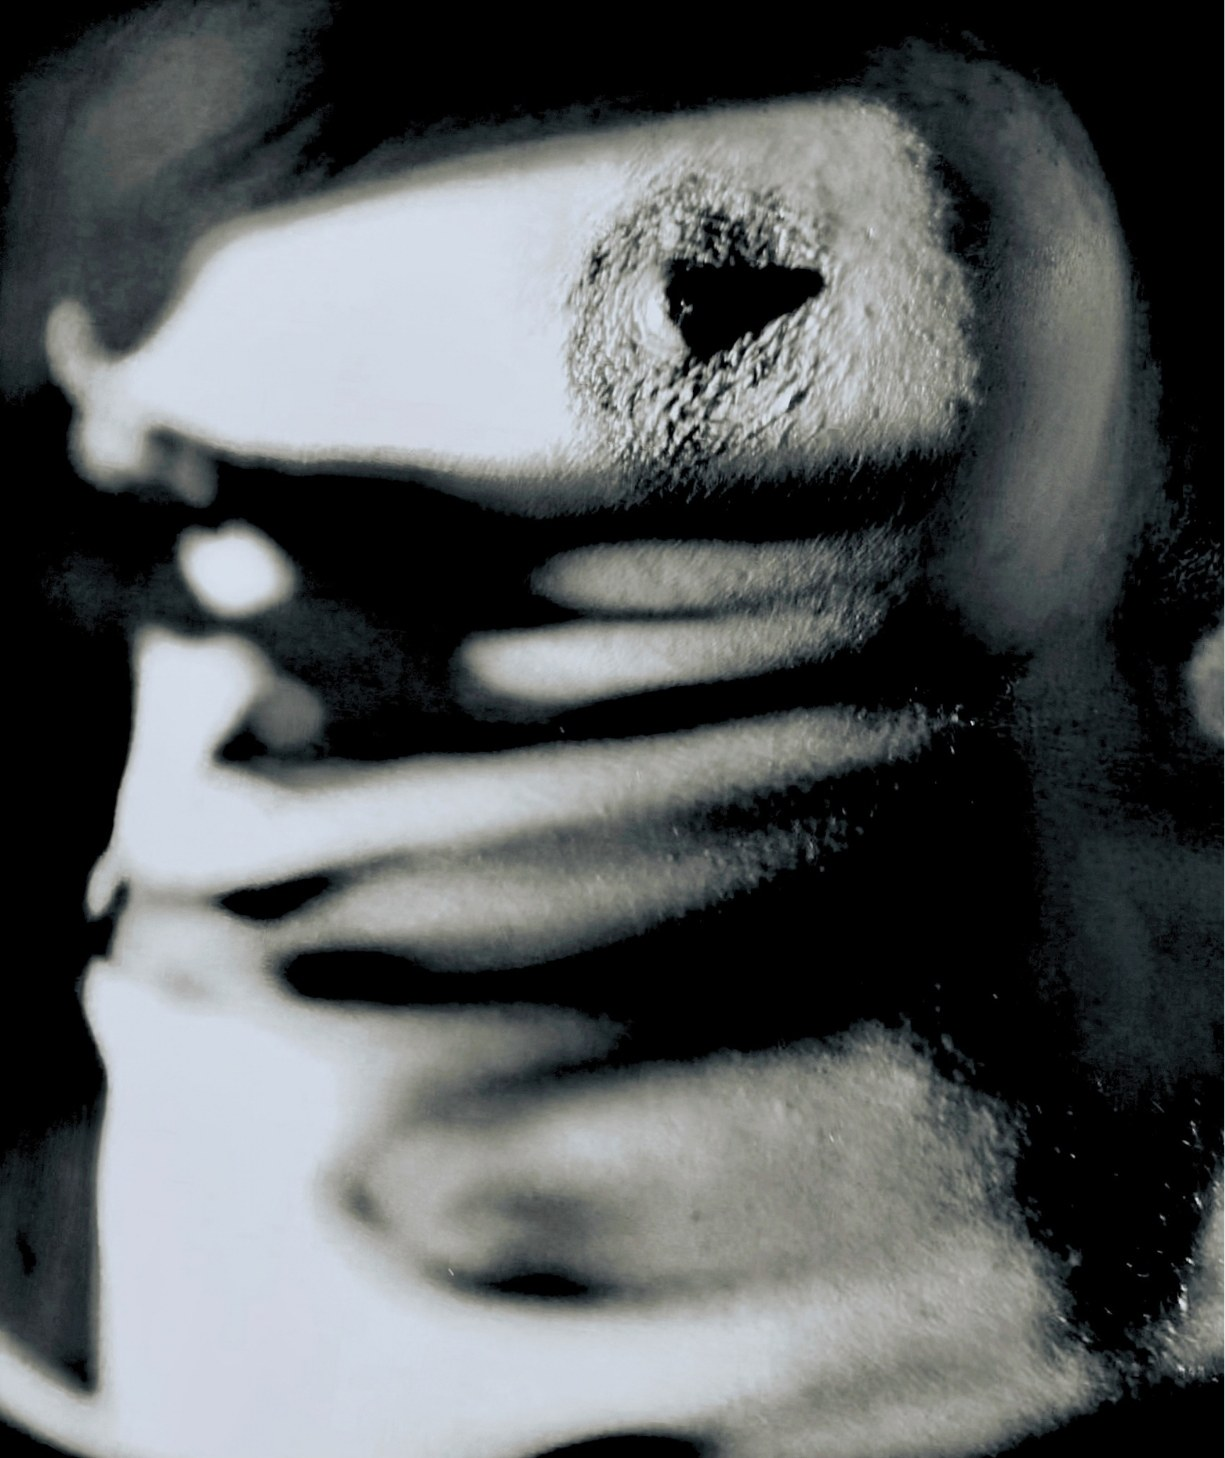
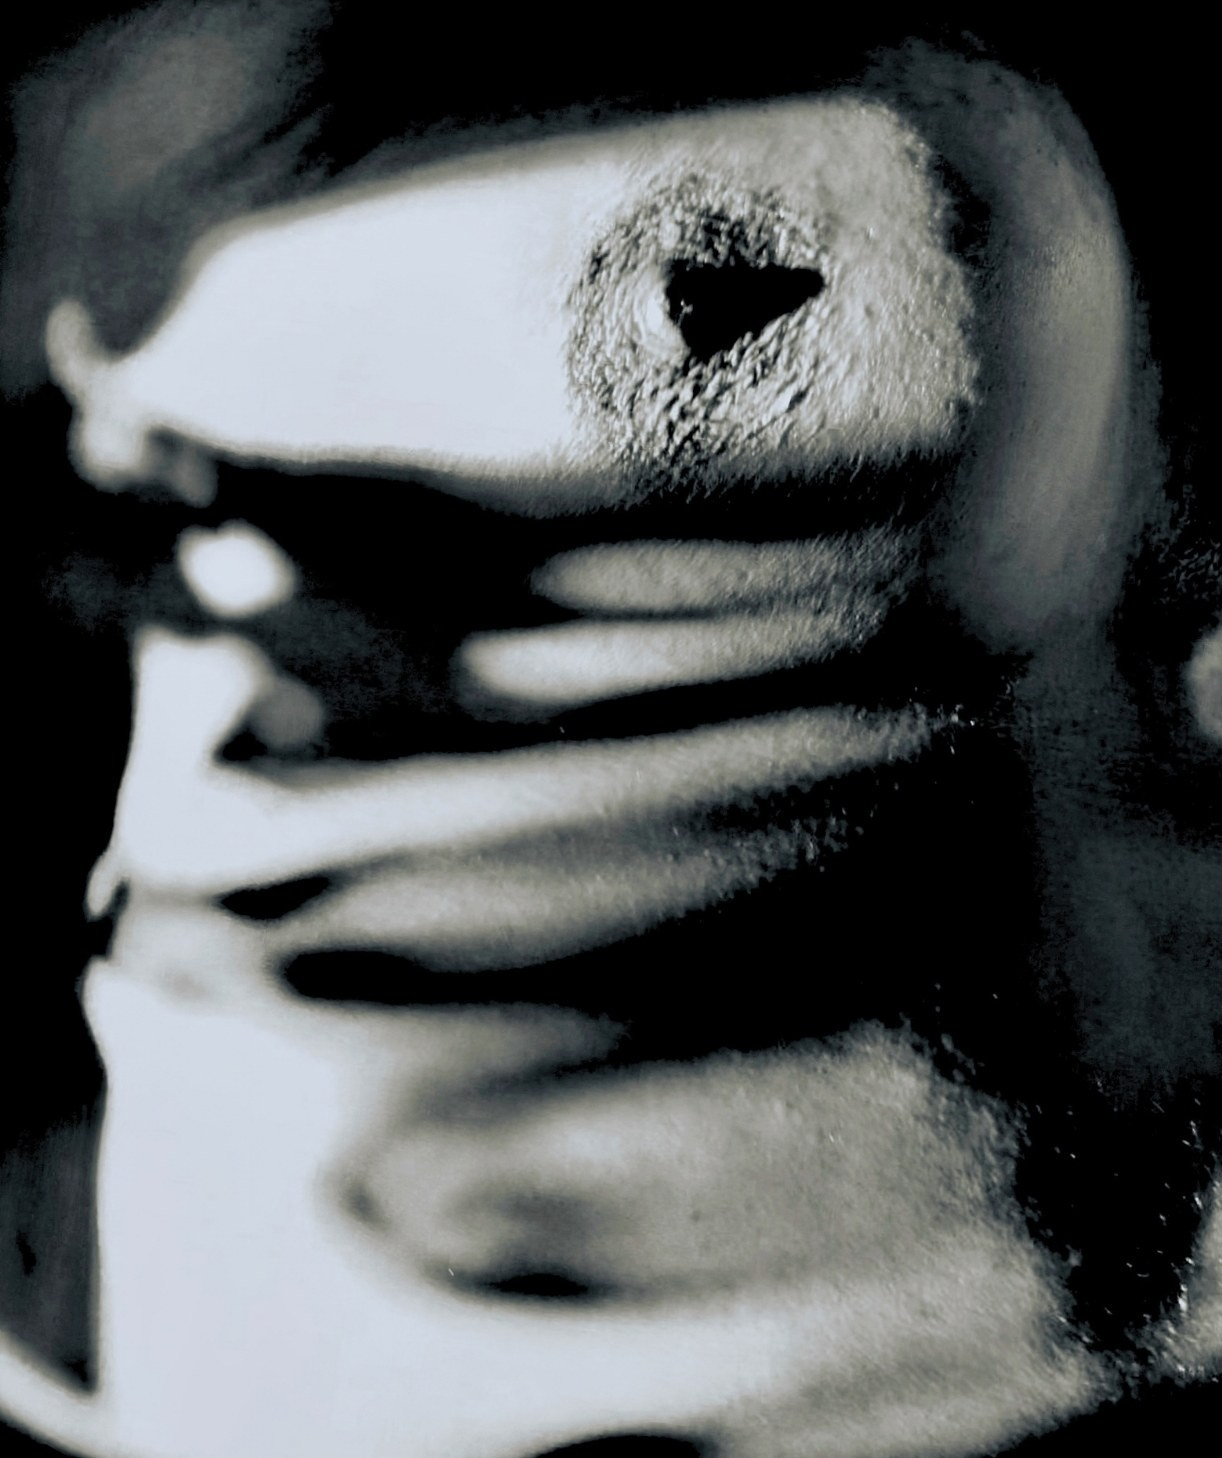
Relative: trim light edge lines that widened the gap inside Gravity and Ramification
Claude-Session: https://claude.ai/code/session_017CfwZAVzcE1XJqFP6CWfhU

diff --git a/lib/image-sizes.ts b/lib/image-sizes.ts
@@ -223,30 +223,30 @@ export const imageSizes: Record<string, [number, number]> = {
   "/art/relative/04.webp": [1500, 828],
   "/art/relative/05.webp": [1500, 783],
   "/art/relative/06.webp": [1200, 1500],
-  "/art/relative/relative-01-wind-a.jpg": [1239, 1541],
-  "/art/relative/relative-01-wind-b.jpg": [1175, 1530],
+  "/art/relative/relative-01-wind-a.jpg": [1239, 1538],
+  "/art/relative/relative-01-wind-b.jpg": [1175, 1527],
   "/art/relative/relative-01A.jpg": [1381, 1080],
   "/art/relative/relative-01B.jpg": [864, 1080],
-  "/art/relative/relative-02-insulation-a.jpg": [2573, 1654],
-  "/art/relative/relative-02-insulation-b.jpg": [2572, 1708],
+  "/art/relative/relative-02-insulation-a.jpg": [2566, 1651],
+  "/art/relative/relative-02-insulation-b.jpg": [2566, 1704],
   "/art/relative/relative-02A.jpg": [864, 1080],
   "/art/relative/relative-02B.jpg": [824, 1080],
-  "/art/relative/relative-03-gravity-a.jpg": [1137, 1525],
-  "/art/relative/relative-03-gravity-b.jpg": [1011, 1526],
-  "/art/relative/relative-04-striation-a.jpg": [1559, 1601],
-  "/art/relative/relative-04-striation-b.jpg": [1576, 1620],
+  "/art/relative/relative-03-gravity-a.jpg": [1134, 1525],
+  "/art/relative/relative-03-gravity-b.jpg": [1008, 1523],
+  "/art/relative/relative-04-striation-a.jpg": [1556, 1598],
+  "/art/relative/relative-04-striation-b.jpg": [1573, 1620],
   "/art/relative/relative-04A.jpg": [909, 885],
   "/art/relative/relative-04B.jpg": [909, 885],
-  "/art/relative/relative-05-ramification-a.jpg": [1770, 2574],
-  "/art/relative/relative-05-ramification-b.jpg": [1846, 2574],
+  "/art/relative/relative-05-ramification-a.jpg": [1761, 2571],
+  "/art/relative/relative-05-ramification-b.jpg": [1840, 2568],
   "/art/relative/relative-05A.jpg": [875, 1080],
   "/art/relative/relative-05B.jpg": [820, 1080],
-  "/art/relative/relative-06-umbra-a.jpg": [1225, 1458],
-  "/art/relative/relative-06-umbra-b.jpg": [1095, 1460],
+  "/art/relative/relative-06-umbra-a.jpg": [1222, 1458],
+  "/art/relative/relative-06-umbra-b.jpg": [1092, 1457],
   "/art/relative/relative-06A.jpg": [819, 976],
   "/art/relative/relative-06B.jpg": [732, 976],
-  "/art/relative/relative-07-occlusion-a.jpg": [1259, 1038],
-  "/art/relative/relative-07-occlusion-b.jpg": [1262, 1039],
+  "/art/relative/relative-07-occlusion-a.jpg": [1253, 1035],
+  "/art/relative/relative-07-occlusion-b.jpg": [1256, 1033],
   "/art/relative/relative-07A.jpg": [1250, 2000],
   "/art/relative/relative-07B.jpg": [1250, 2000],
   "/art/relative/relative-08A.jpg": [811, 1080],
